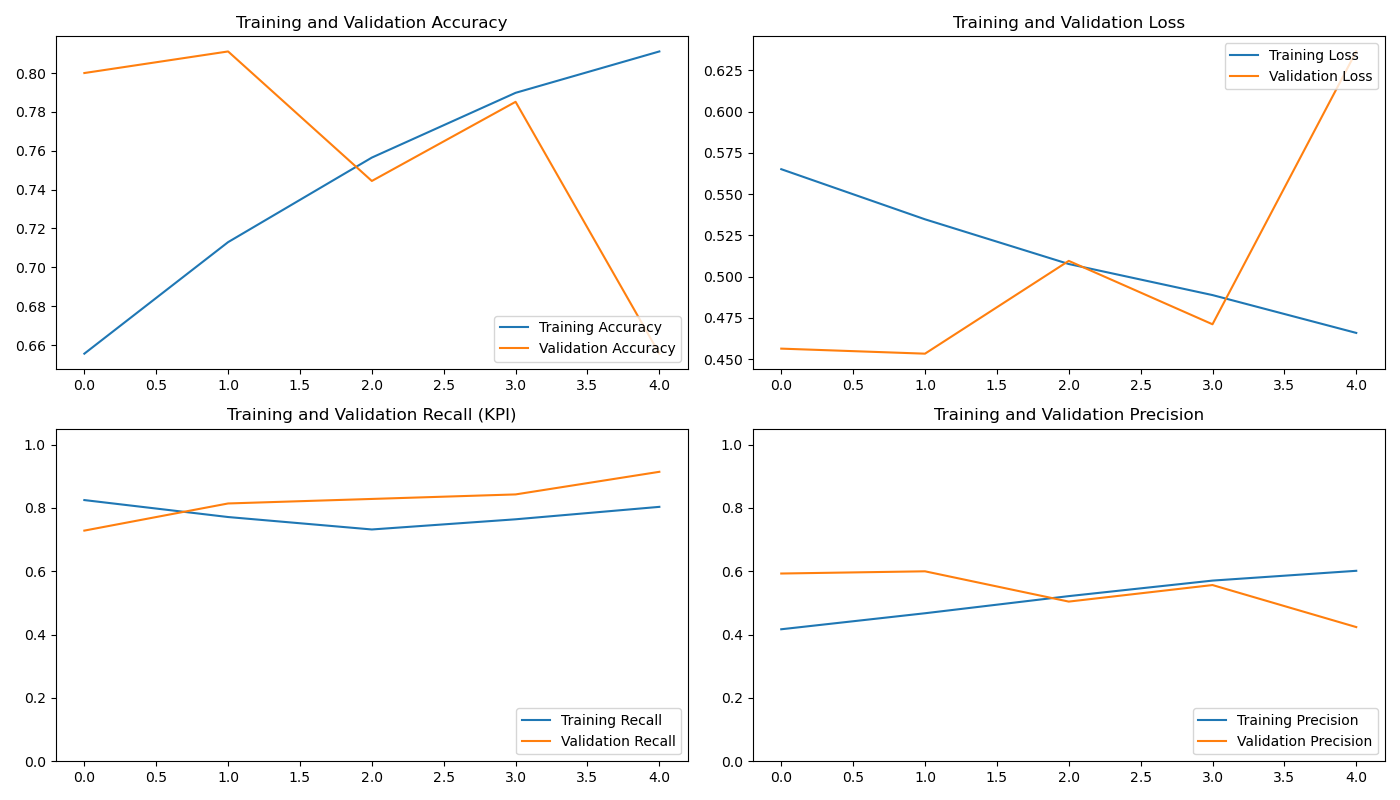
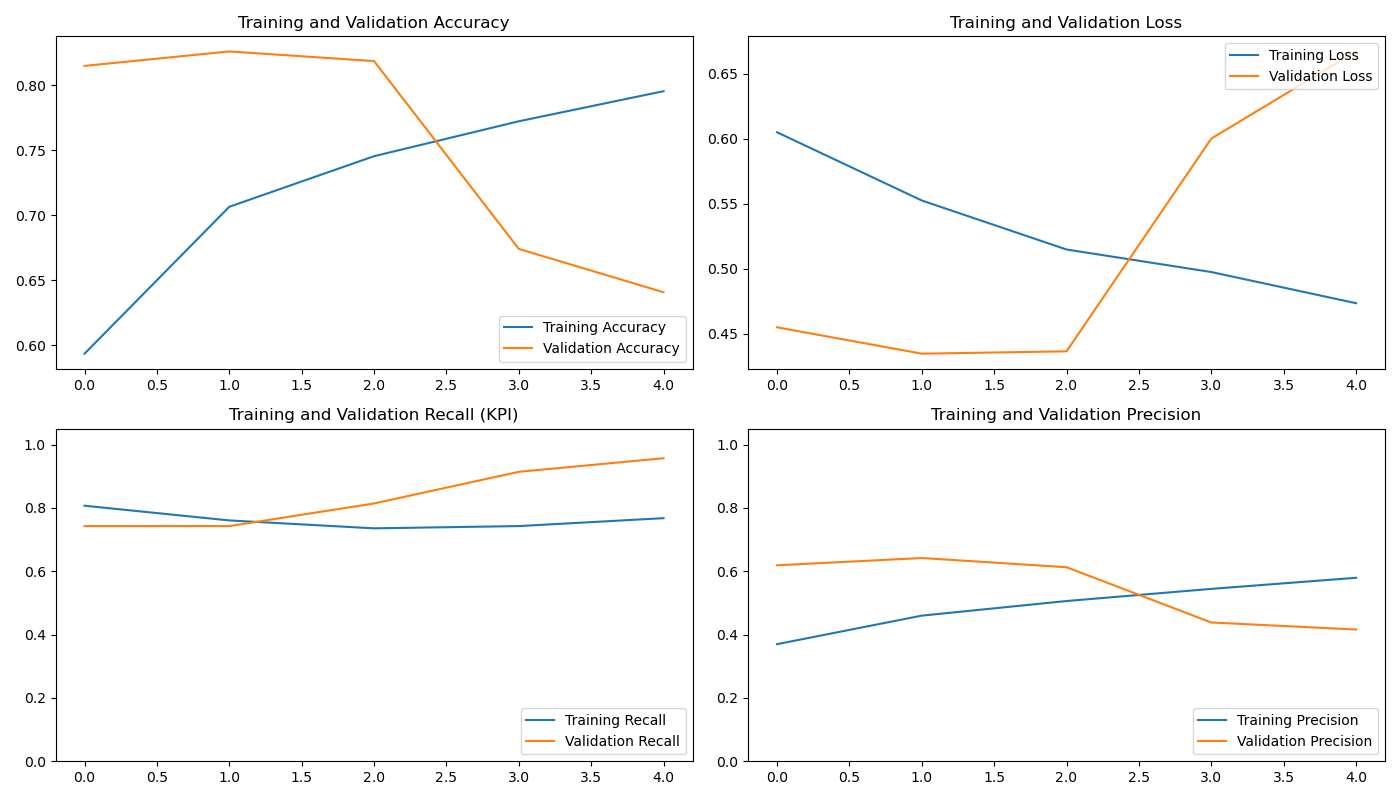
v3.0: バランス型モデル作成 (val_loss監視, val_acc=0.83)

diff --git a/fine_tune.py b/fine_tune.py
@@ -118,9 +118,9 @@ model.compile(
 )
 
 checkpoint = ModelCheckpoint(
-    filepath='finetuned_best_model.keras', # 保存ファイル名を変更
-    monitor='val_recall',                 # 監視対象をKPI（再現率）に変更
-    mode='max',                           # 'val_recall' なので max を目指す
+    filepath='balanced_best_model.keras', # 1. 保存ファイル名を変更
+    monitor='val_loss',                   # 2. 監視対象を「損失」に変更
+    mode='min',                           # 3. 損失(loss)なので最小(min)を目指す
     save_best_only=True
 )
 
